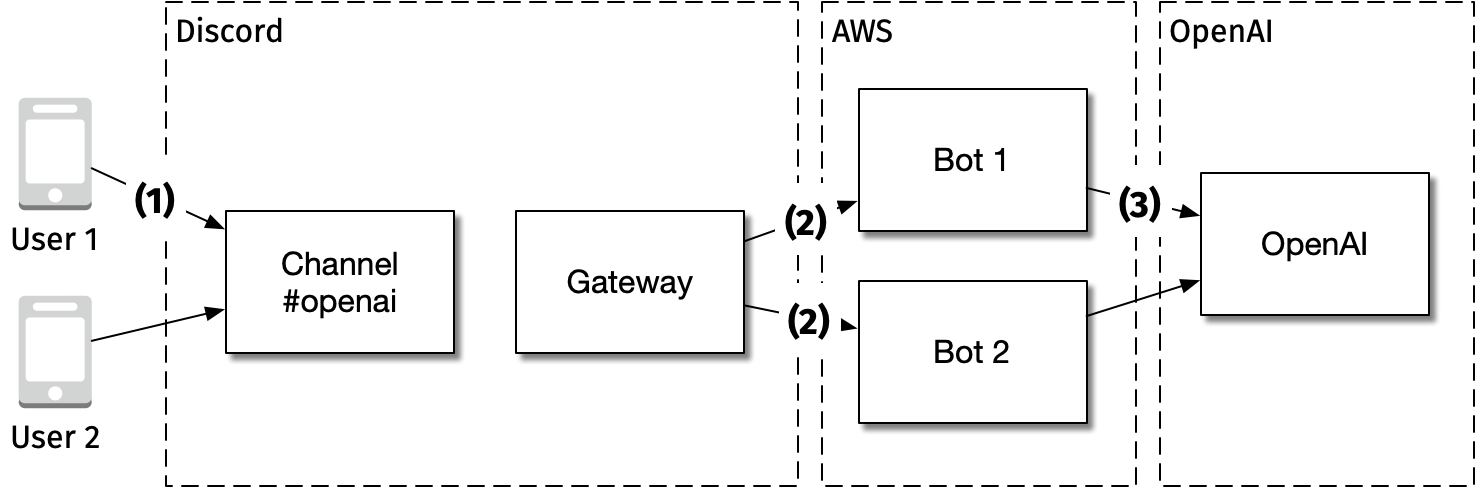
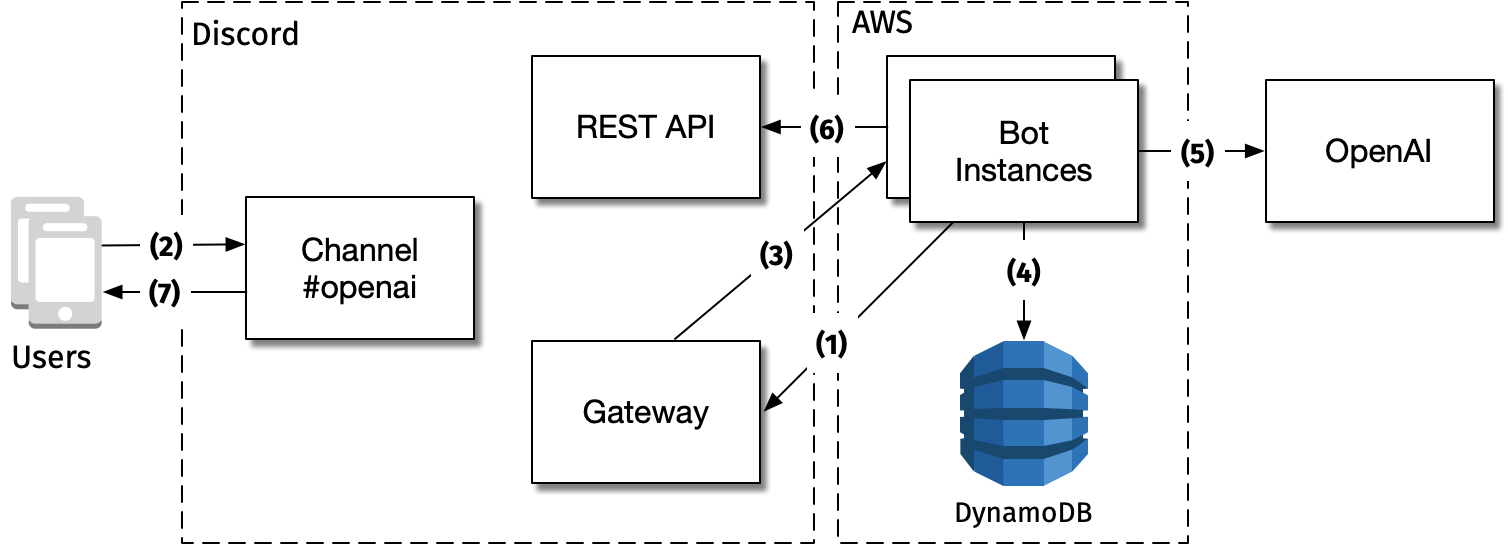
fix diagram

diff --git a/hugo/content/posts/openai-discord-bot-on-aws/index.md b/hugo/content/posts/openai-discord-bot-on-aws/index.md
@@ -32,34 +32,51 @@ tags:
 
 ## Problem statement
 
-Creating a collaborative chatbot that can engage in conversations with multiple users is a challenging problem
-that requires a secure, cost-effective, and highly available solution. OpenAI's language models can be used to
-create such a chatbot. However, hosting it on a web application is not ideal because creating a usable web
-user experience would require more work than necessary. Using an existing chat platform makes it easier to access the
-chatbot on any device. Furthermore, the application needs to be secure, cost-effective, and highly available.
+Creating a collaborative chatbot that can engage in conversations with multiple
+users is a challenging problem that requires a secure, cost-effective, and
+highly available solution. OpenAI's language models can be used to create such a
+chatbot. However, hosting it on a web application is not ideal because creating
+a usable web user experience would require more work than necessary. Using an
+existing chat platform makes it easier to access the chatbot on any device.
+Furthermore, the application needs to be secure, cost-effective, and highly
+available.
 
 ## System overview
 
 ![01-system-overview](01-system-overview.png)
 
-0. Multiple bots connect to Discord over WebSocket.
-1. Users connect to Discord using their preferred client. When they chat in channels, the messages are sent to the Discord server.
-2. The Discord server forwards the messages to all connected Discord bots.
-3. All bots try to acquire a lease on the message in DynamoDB. The bot that acquires the lease is the only bot that will send the message to OpenAI.
+1. Bot instances are running on multiple EC2 spot instances. Each one sets up a
+   WebSocket connection to the Discord Gateway.
+2. Users connect to Discord using their preferred client. When they chat in
+   channels, the messages are sent to the Discord server.
+3. The Discord server forwards the messages to all of the bot instances over
+   WebSocket.
+4. For a given message, all bot instances try to acquire a lease on the message
+   in DynamoDB. The instance that acquires the lease is the one that responds to
+   the message. The others ignore the message.
+5. The bot instance that acquired the lease sends the message to OpenAI to get a
+   response.
+6. The bot instance sends the response to the Discord REST API.
+7. The Discord server forwards the response to the Discord clients of all the
+   users in the channel.
 
 - System Overview - step-by-step walkthrough of system components
   - Technologies Used - list of technologies used
   - Code Samples - provide code samples to demonstrate how it works
   - Deployment - explain how the system is deployed
-  - Visuals - include diagrams and screenshots to better explain the system and its components
+  - Visuals - include diagrams and screenshots to better explain the system and
+    its components
 
 - System Components - Overview of components used in the system
 - Discord Client - Details of connecting to Discord using a Discord client
-- AWS EC2 Spot Instances - Details of how the Discord bot runs on AWS EC2 spot instances
-- WebSocket Connection - Overview of connecting the Discord bot to Discord over WebSocket
+- AWS EC2 Spot Instances - Details of how the Discord bot runs on AWS EC2 spot
+  instances
+- WebSocket Connection - Overview of connecting the Discord bot to Discord over
+  WebSocket
 - OpenAI - Overview of how the bot talks to OpenAI to get chatbot responses
 - End-to-End Sequence - Example of an end-to-end sequence of a user chatting
-  - Diagram - Draw a diagram to illustrate the components involved in the end-to-end sequence 
+  - Diagram - Draw a diagram to illustrate the components involved in the
+    end-to-end sequence 
 - Summary - Summarize the system overview
 
 This system provides an easy-to-use interface for users to create their own
@@ -91,13 +108,14 @@ available chatbot.
 ## Distributed Locking and Leases
 
 - Leases and Failure Detection
-- Distributed locking and leases on DynamoDB to prevent multiple
-  instances of the bot from responding to the same message, and
-  to minimize the number of API calls to OpenAI.
+- Distributed locking and leases on DynamoDB to prevent multiple instances of
+  the bot from responding to the same message, and to minimize the number of API
+  calls to OpenAI.
 
 ## Comparison
 
-- provide a detailed comparison between the proposed system and alternative solutions
+- provide a detailed comparison between the proposed system and alternative
+  solutions
 
 ## Future plans
 